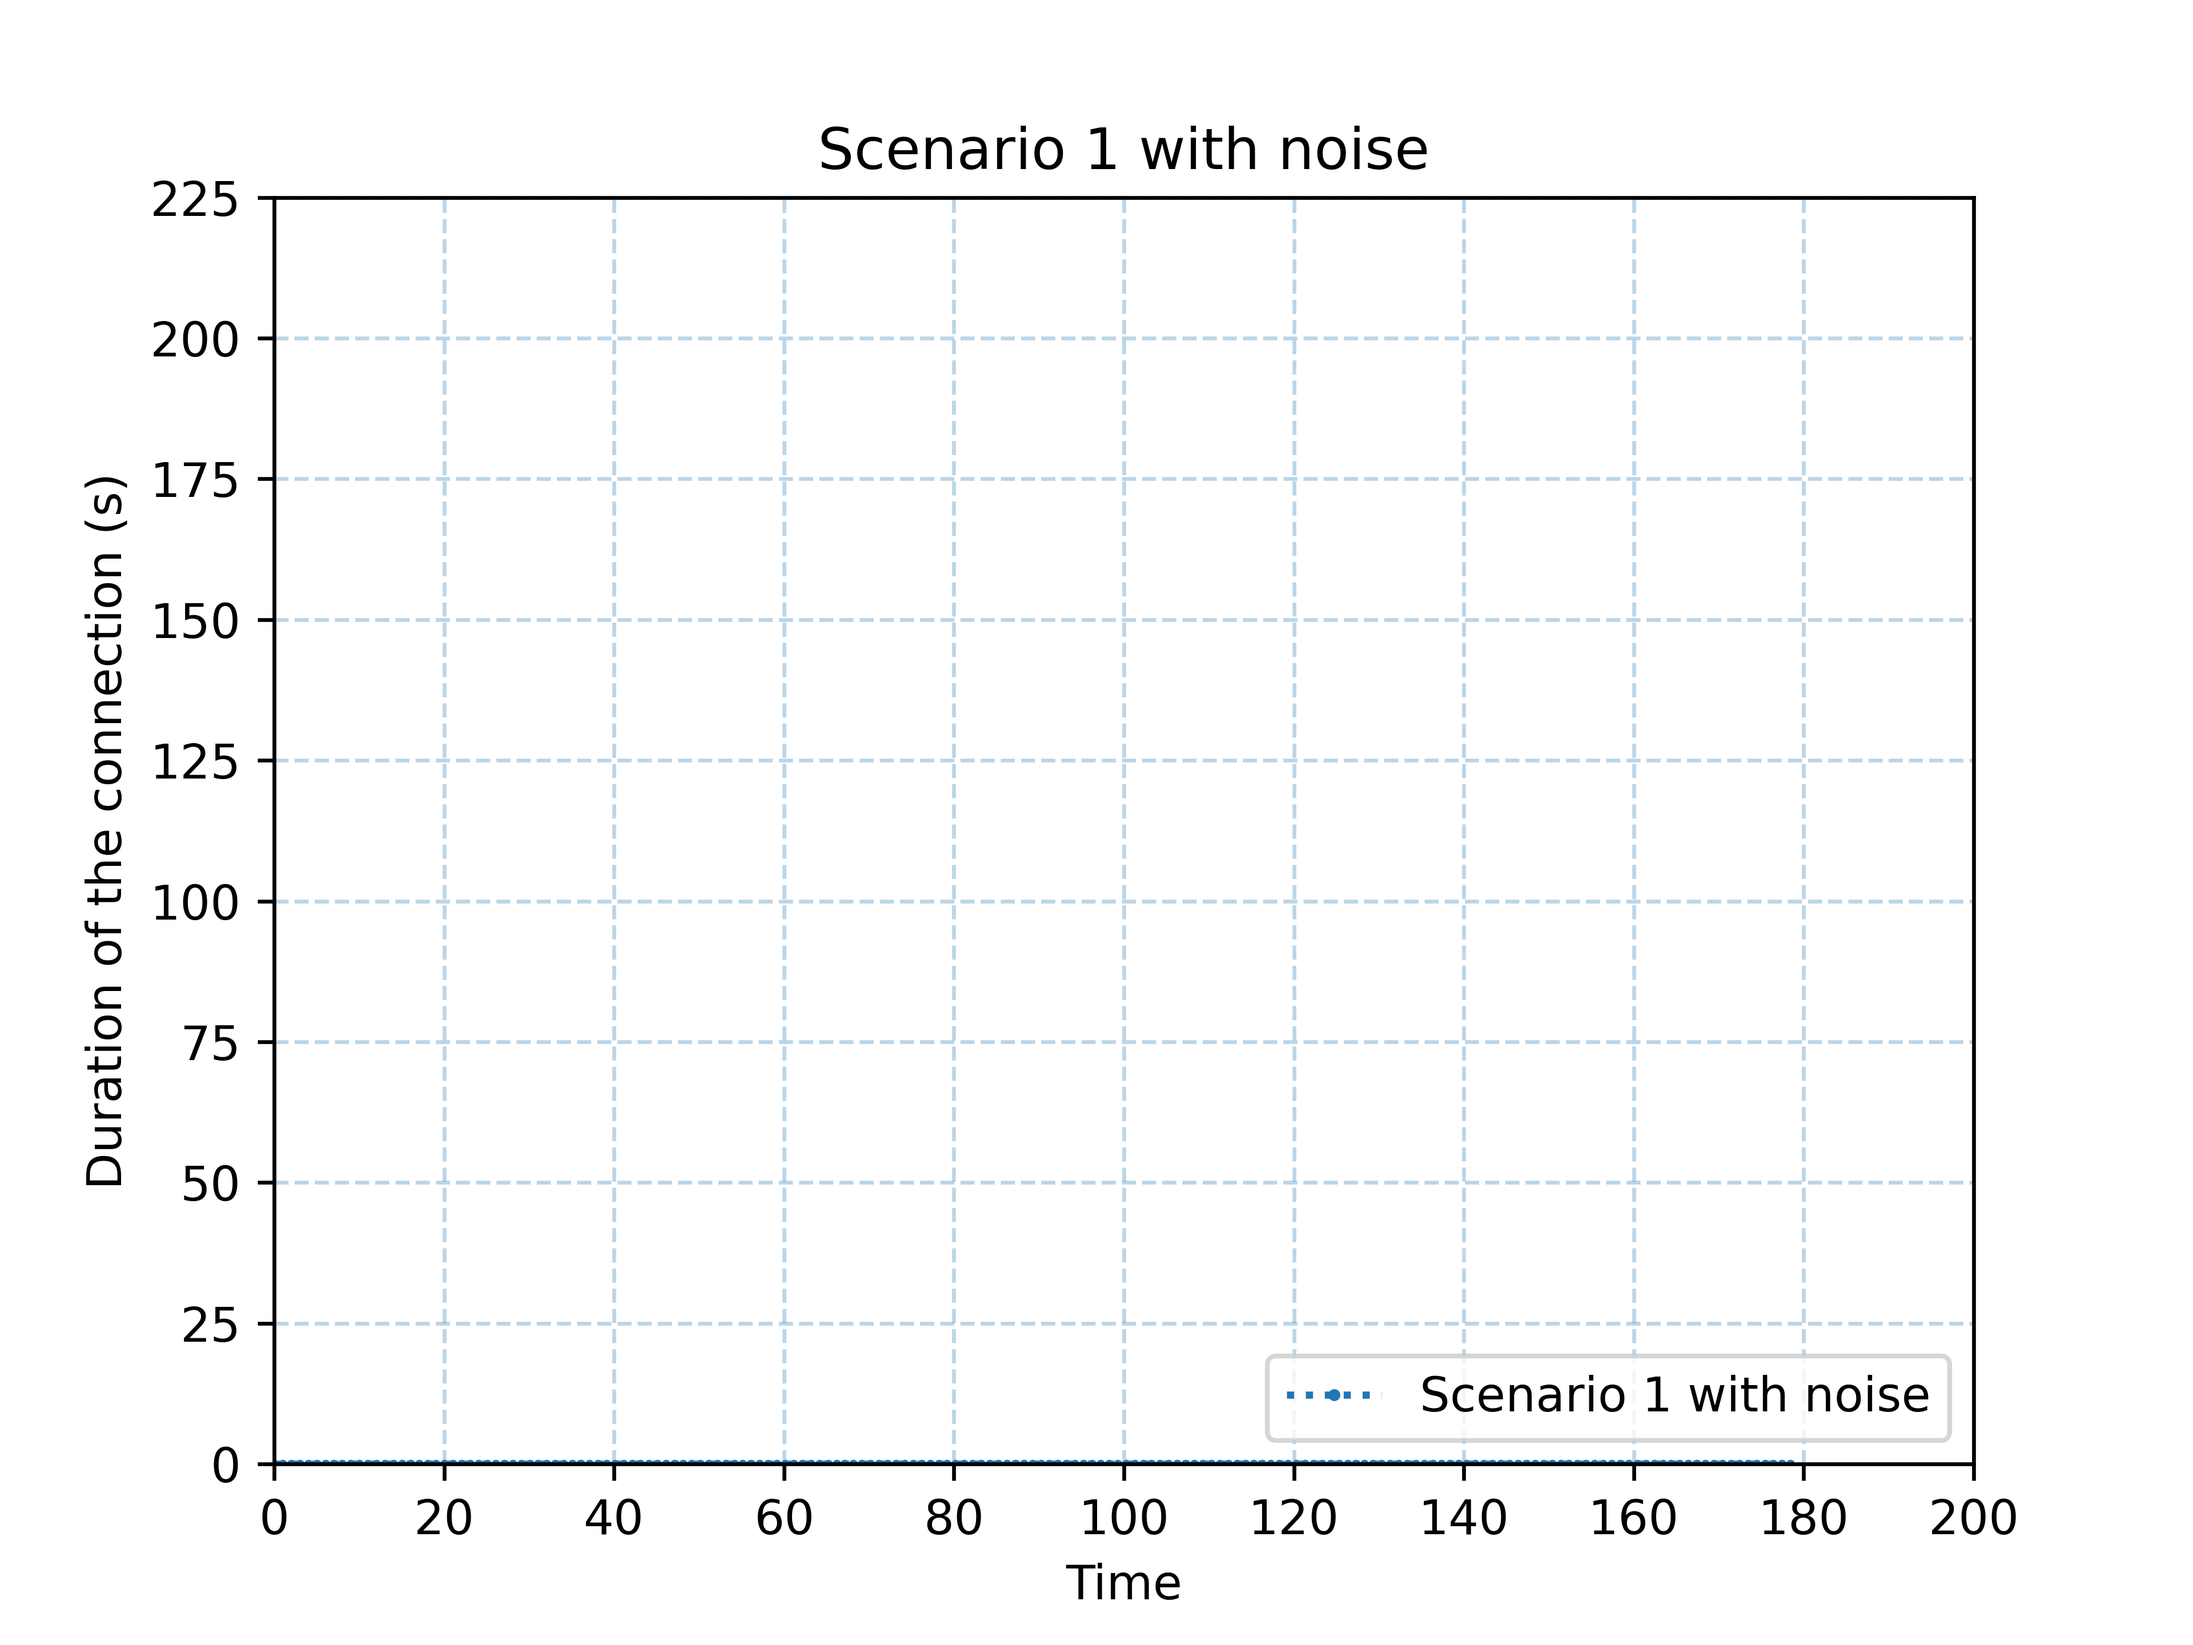
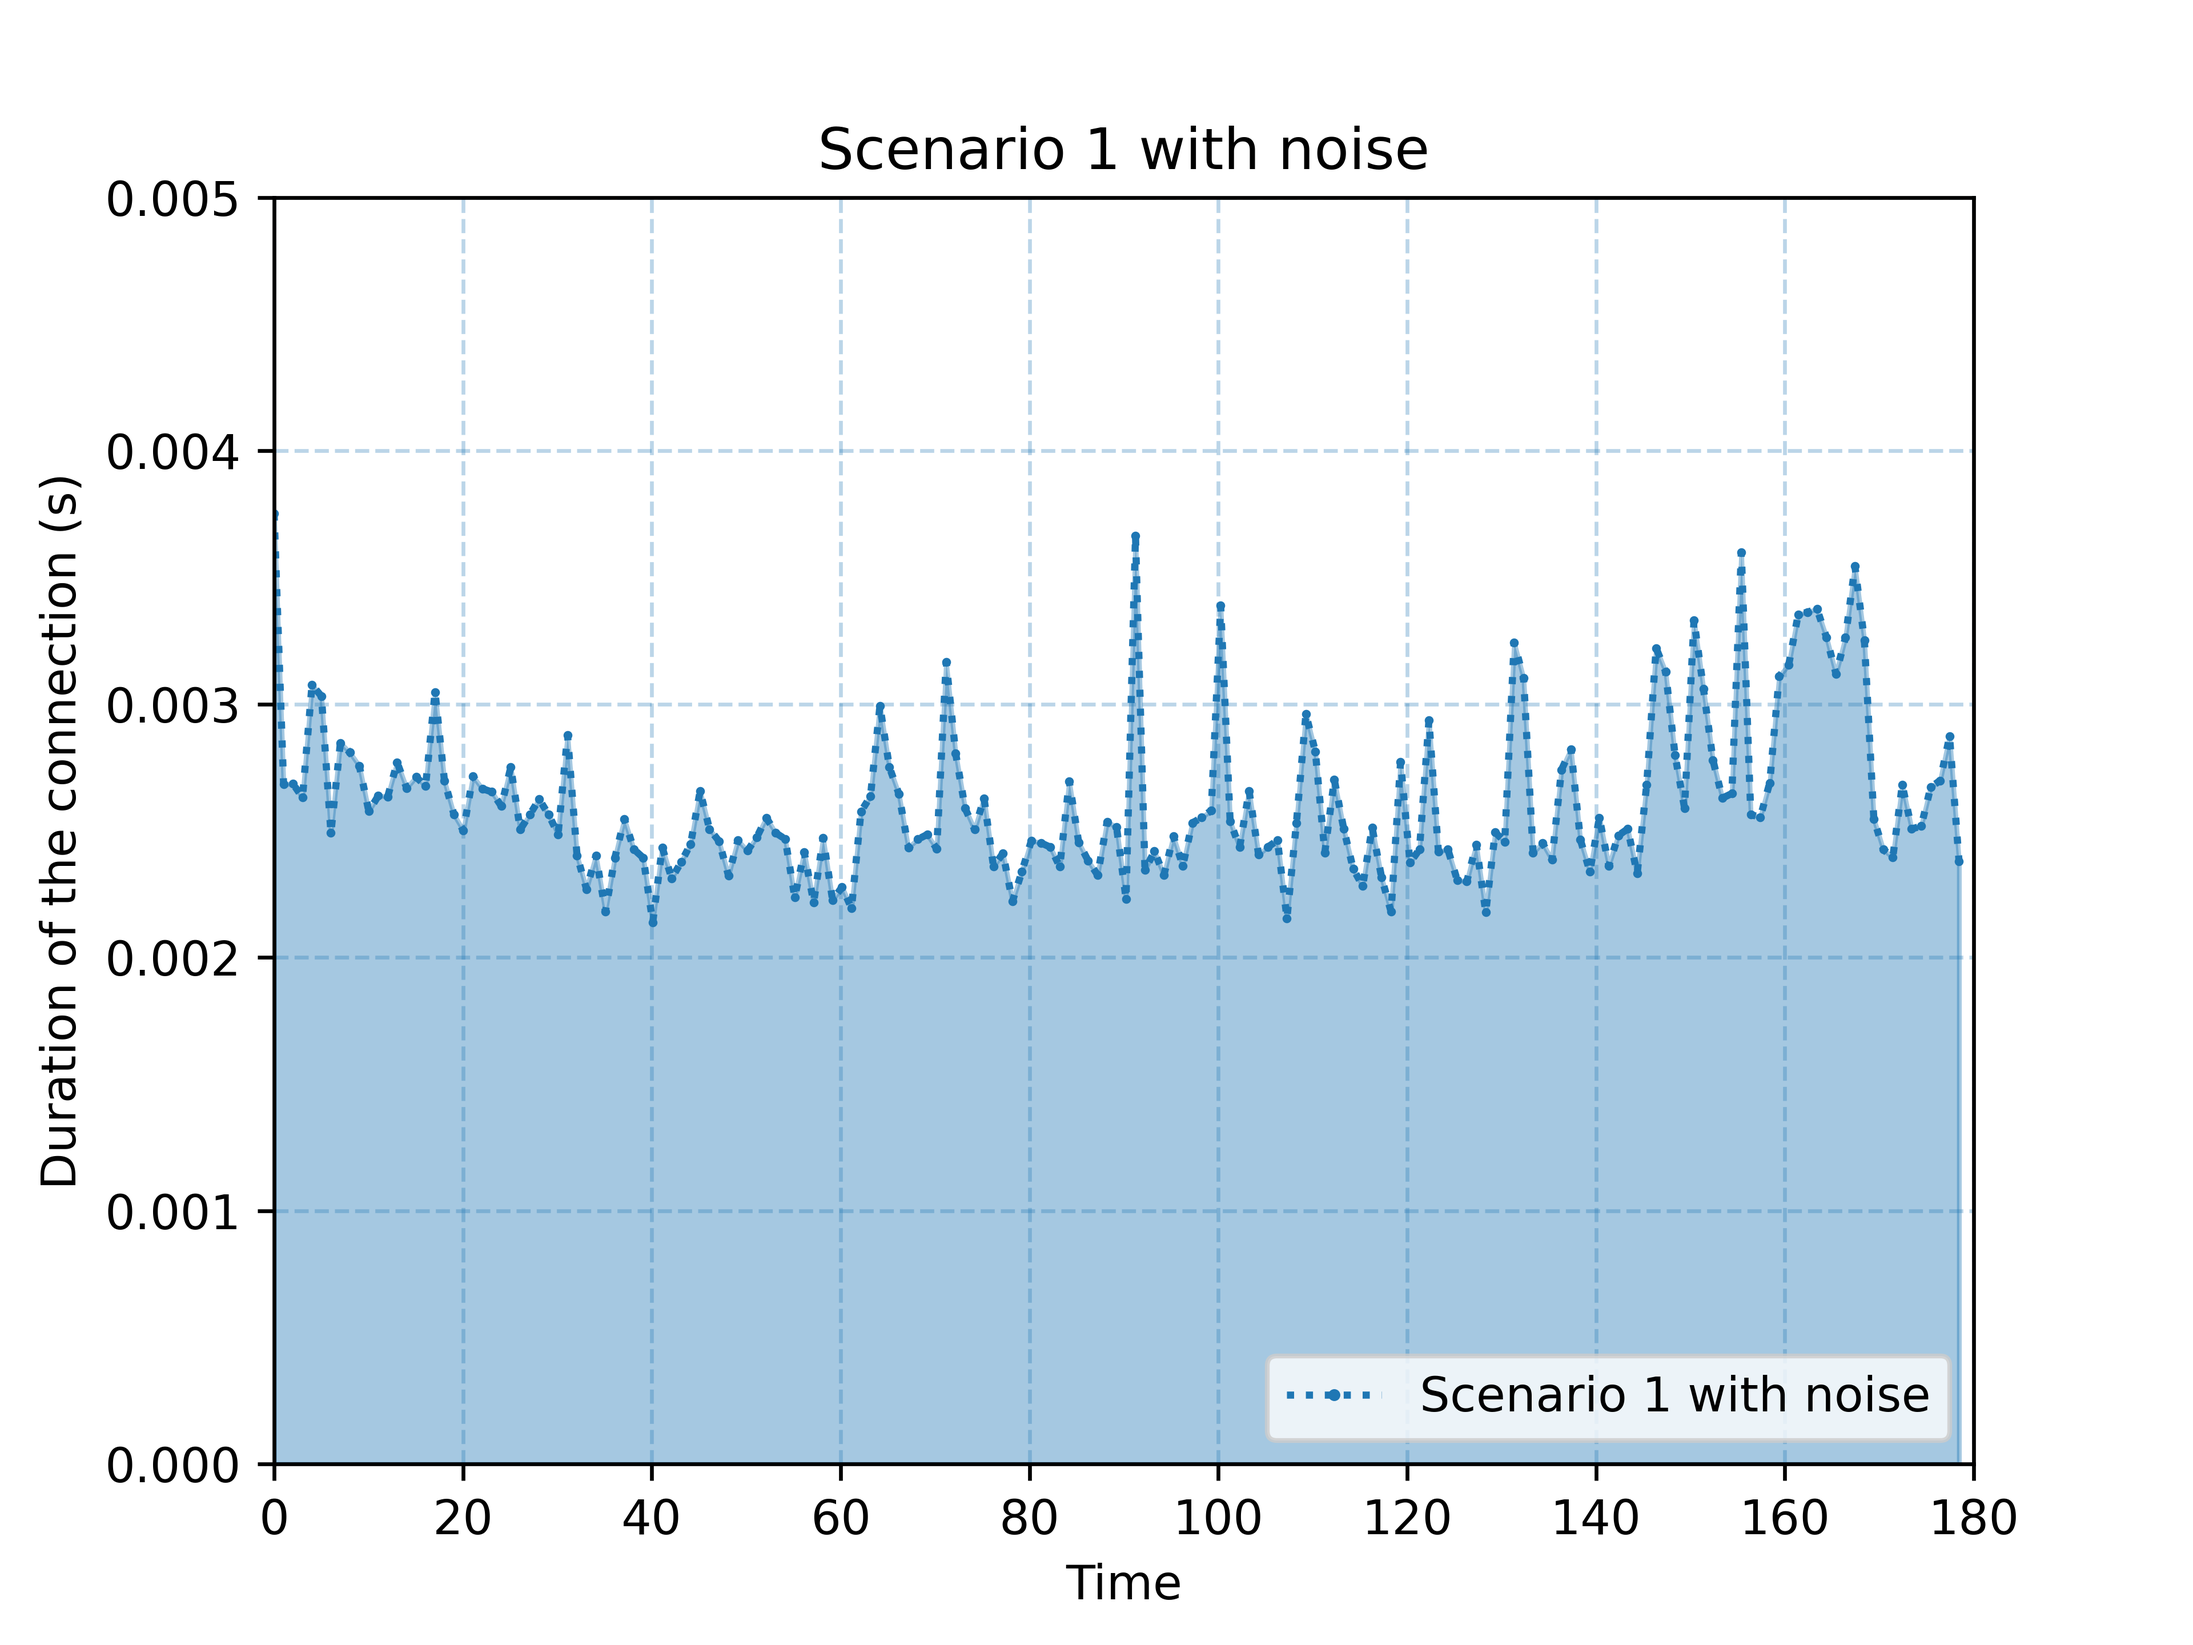
Graph creation done

diff --git a/TcpSynFlood/src/constant/graph_const.py b/TcpSynFlood/src/constant/graph_const.py
@@ -1,6 +1,6 @@
 ########################### Values for reading the CSV files ###########################
 # Rounding value for the execution time. If it is set to None no round is performed
-ROUND_VAL = 2
+ROUND_VAL = None
 
 # Names for the columns of the np array
 COL_NM = ["Time",
@@ -9,8 +9,9 @@ COL_NM = ["Time",
 ########################### Constants for Graph Creation  ###########################
 # Range of values for the axis
 AXIS = [
-    [0, 220, 20],
-    [0, 250, 25]
+    [0, 200, 20],
+    # [0, 250, 25]
+    [0, 0.006, 0.001]
 ]
 
 # Names for the axis

diff --git a/TcpSynFlood/src/graph/createGraph.py b/TcpSynFlood/src/graph/createGraph.py
@@ -65,8 +65,6 @@ def readFiles(files, col, round_val=None):
         # line = pd.DataFrame({col[0]: 0, col[1]: 0}, index=[0])
         # data_tmp = pd.concat([data_tmp.iloc[:0], line, data_tmp.iloc[0:]]).reset_index(drop=True)
 
-        print(data_tmp)
-
         data.append(data_tmp)  # Add the new data from the csv file to the list
     return data
 
